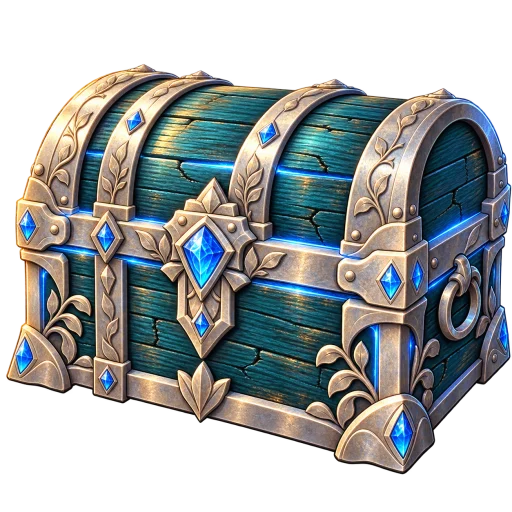
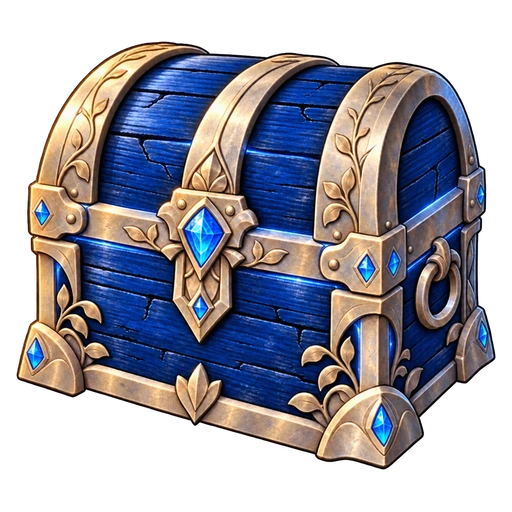
Adjust mission chest rewards and enlarge Big Rare chest art

diff --git a/packages/game/src/missions.ts b/packages/game/src/missions.ts
@@ -199,15 +199,15 @@ export const MISSION_CHESTS: Record<
     { threshold: 20, rarity: "common" },
     { threshold: 40, rarity: "common" },
     { threshold: 60, rarity: "common" },
-    { threshold: 80, rarity: "rare" },
+    { threshold: 80, rarity: "common" },
     { threshold: 100, rarity: "rare" },
   ],
   weekly: [
-    { threshold: 100, rarity: "rare" },
-    { threshold: 200, rarity: "bigRare" },
-    { threshold: 300, rarity: "epic" },
-    { threshold: 400, rarity: "epic" },
-    { threshold: 500, rarity: "legendary" },
+    { threshold: 100, rarity: "common" },
+    { threshold: 200, rarity: "common" },
+    { threshold: 300, rarity: "rare" },
+    { threshold: 400, rarity: "rare" },
+    { threshold: 500, rarity: "bigRare" },
   ],
 };
 

diff --git a/apps/web/src/missions.css b/apps/web/src/missions.css
@@ -169,6 +169,10 @@
     transform 160ms,
     filter 160ms;
 }
+.mission-chest[data-chest-type="bigRare"] > img {
+  scale: 1.16;
+  transform-origin: center bottom;
+}
 .mission-chest[data-status="active"] > img {
   filter: saturate(0.55) brightness(0.7) drop-shadow(0 3px 3px #0005);
 }
@@ -591,6 +595,9 @@
   }
   .mission-chest > img {
     height: 59px;
+  }
+  .mission-chest[data-chest-type="bigRare"] > img {
+    scale: 1.12;
   }
   .mission-road-line {
     top: 30px;

diff --git a/apps/web/src/components/hub/missions-dialog.tsx b/apps/web/src/components/hub/missions-dialog.tsx
@@ -307,6 +307,7 @@ function MissionChestTrack({
             key={chest.index}
             type="button"
             className="mission-chest"
+            data-chest-type={chest.rarity}
             data-status={chest.status}
             disabled={chest.status !== "ready" || !!pending || !onOpen}
             onClick={() => onOpen?.(kind, track, chest.index)}

diff --git a/README.md b/README.md
@@ -8,7 +8,7 @@ Après connexion, `/hub` ouvre le refuge des gardiens, un village illustré en p
 
 Une barre communautaire reste centrée en bas du hub pendant l’exploration : trois icônes originales donnent accès à **Classement**, **Amis** et **Missions**, avec un bandeau **Chat mondial** repliable en dessous. Classement, amis et chat sont présentés comme bientôt disponibles. La barre s’adapte aux écrans mobiles.
 
-Les **Missions** ouvrent un carnet à trois onglets : **Jour**, **Semaine** et **Épique**. Les cinq objectifs quotidiens et hebdomadaires suivent les duels terminés, les victoires, les cartes jouées, les coffres ouverts et les améliorations. Un clic sur **Récupérer** rapporte respectivement 20 ou 100 **sceaux de mission**. Ces sceaux débloquent cinq coffres sur chaque parcours (20 à 100 par jour, 100 à 500 par semaine), à ouvrir manuellement sans délai ni emplacement de coffre requis. Les coffres contiennent les cartes et l’or de la ligue maximale atteinte au moment de l’ouverture ; ils comptent aussi pour les objectifs d’ouverture. Les sceaux ne sont pas dépensés et expirent avec le parcours. Le jour se renouvelle à minuit UTC, la semaine le lundi à minuit UTC ; les récompenses non récupérées expirent également.
+Les **Missions** ouvrent un carnet à trois onglets : **Jour**, **Semaine** et **Épique**. Les cinq objectifs quotidiens et hebdomadaires suivent les duels terminés, les victoires, les cartes jouées, les coffres ouverts et les améliorations. Un clic sur **Récupérer** rapporte respectivement 20 ou 100 **sceaux de mission**. Ces sceaux débloquent cinq coffres sur chaque parcours (20 à 100 par jour, 100 à 500 par semaine), à ouvrir manuellement sans délai ni emplacement de coffre requis : quatre Communs puis un Rare pour le Jour ; deux Communs, deux Rares puis un Big Rare pour la Semaine. Les coffres contiennent les cartes et l’or de la ligue maximale atteinte au moment de l’ouverture ; ils comptent aussi pour les objectifs d’ouverture. Les sceaux ne sont pas dépensés et expirent avec le parcours. Le jour se renouvelle à minuit UTC, la semaine le lundi à minuit UTC ; les récompenses non récupérées expirent également.
 
 Sept missions épiques suivent aussi les invocations et les évolutions, sans limite de temps. Chaque palier doit être récupéré pour créditer les émeraudes et ouvrir le suivant : les objectifs sont cumulatifs et croissent selon `objectif initial × (palier + 1) × (palier + 2) / 2` (palier interne à partir de zéro), les récompenses selon `récompense initiale × (palier + 1)`. La progression est conservée. Seuls les duels solo et publics comptent ; les défis amicaux et l’entraînement local sont exclus. Le suivi commence avec l’ajout de cette fonctionnalité. Une coche verte apparaît sur l’icône du hub dès qu’une mission ou un coffre peut être récupéré. Les événements et récompenses sont validés dans les transactions Convex ; les reprises de requêtes ne distribuent pas une récompense deux fois.
 
